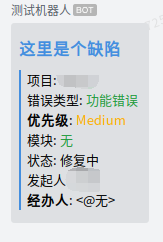
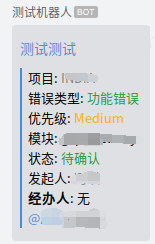
start pytest

diff --git a/21.jenkins/1.jenkins.md b/21.jenkins/1.jenkins.md
@@ -929,10 +929,10 @@ https://testerhome.com/articles/22280
 ### 1.jira-webhook配置
 ![](./images/jira-webhook.png)
 
-- 在URL中填写jenkins提供的webhook接口
-- 为了避免频繁的发送,只有在特定的几个状态时才发送
+- 在URL中填写jenkins提供的webhook接口:`http://JENKINS_URL/generic-webhook-trigger/invoke?token=JIRA-TO-QYWECHAT`
+- 为了避免频繁的发送,设定只有在特定的几个转换(步骤)时才发送
 
-### 2. jenkins设置
+### 2.jenkins job
 
 ![](./images/qywechat-bot.png)
 
@@ -946,7 +946,7 @@ pipeline {
     agent any
     triggers {
         GenericTrigger (
-            causeString: 'JIRA-TO-QYWECHAT', 
+            causeString: JOB_NAME,  // 事件名跟随job名变动
             genericVariables: [ // defaultValue不可设为 null, jenkins无法识别将报错
                 [defaultValue: '无', key: 'SUMMARY', regexpFilter: '', value: '$.issue.fields.summary'], 
                 [defaultValue: '无', key: 'PROJECT', regexpFilter: '', value: '$.issue.fields.project.name'], 
@@ -957,20 +957,31 @@ pipeline {
                 [defaultValue: '无', key: 'ASSIGNEE', regexpFilter: '', value: '$.issue.fields.assignee.displayName'],
                 [defaultValue: '无', key: 'PROJECT_KEY', regexpFilter: '', value: '$.issue.fields.project.key'],
                 [defaultValue: '无', key: 'KEY', regexpFilter: '', value: '$.issue.key'],
-                [defaultValue: '无', key: 'STATUS', regexpFilter: '', value: '$.issue.fields.status.name']
+                [defaultValue: '无', key: 'STATUS', regexpFilter: '', value: '$.issue.fields.status.name'],
+                [defaultValue: '无', key: 'REPORTER_AT', regexpFilter: '', value: '$.issue.fields.reporter.name'],
+                [defaultValue: '无', key: 'ASSIGNEE_AT', regexpFilter: '', value: '$.issue.fields.assignee.name']
                 ], 
-            printContributedVariables: true, 
-            printPostContent: true, 
+            printContributedVariables: true,  // 打印捕捉到的参数
+            printPostContent: true,  // 打印post方法发送的body
+            overrideQuietPeriod: true,
             regexpFilterExpression: '', 
             regexpFilterText: '', 
-            token: 'JIRA-TO-QYWECHAT', 
+            token: JOB_NAME,  // token跟随job名字变动,jira钩子处也要变动
             tokenCredentialId: ''
         )
     }
     stages {
         stage('send qywechat') {
             steps {
-
+                script {
+                    if(STATUS == "待确认" || STATUS == "重新打开"){
+                        AT = '<font color=\\"comment\\">待经办人处理:</font> <@'+ASSIGNEE_AT+'>'
+                    }else if(STATUS == "待验证"){
+                        AT = '<font color=\\"comment\\">待发起人处理:</font> <@'+REPORTER_AT+'>'
+                    }else{
+                        AT = '异常状态: <@admin>' // 此处替换成管理员
+                    }
+                }
                 httpRequest (
                     consoleLogResponseBody: true,  
                     contentType: 'APPLICATION_JSON_UTF8', 
@@ -979,11 +990,11 @@ pipeline {
                     requestBody: '''{
                         "msgtype": "markdown",
                         "markdown": {
-                            "content": "#### ['''+SUMMARY+'''](http://JIRA-URL:PORT/projects/'''+PROJECT_KEY+'''/issues/'''+KEY+''')\\n>项目: <font color=\\"comment\\">'''+PROJECT+'''</font>\\n>错误类型: <font color=\\"info\\">'''+ISSUETYPE+'''</font>\\n>优先级: <font color=\\"warning\\">**'''+PRIORITY+'''**</font>\\n>模块: '''+COMPONENT+'''\\n>状态: <font color=\\"info\\">'''+STATUS+'''</font>\\n>发起人: <font color=\\"comment\\">'''+REPORTER+'''</font>\\n>**经办人**: <@'''+ASSIGNEE+'''>"
+                            "content": "#### ['''+SUMMARY+'''](http://JIRA_URL:PORT/projects/'''+PROJECT_KEY+'''/issues/'''+KEY+''')\\n>项目: <font color=\\"comment\\">'''+PROJECT+'''</font>\\n>错误类型: <font color=\\"info\\">'''+ISSUETYPE+'''</font>\\n>**优先级**: <font color=\\"warning\\">'''+PRIORITY+'''</font>\\n>模块: '''+COMPONENT+'''\\n>状态: <font color=\\"info\\">'''+STATUS+'''</font>\\n>发起人: <font color=\\"comment\\">'''+REPORTER+'''</font>\\n>经办人: <font color=\\"comment\\">'''+ASSIGNEE+'''</font>\\n'''+AT+'''"
                         }
-                    }''', // 自行填充jira地址
+                    }''', 
                     responseHandle: 'NONE', 
-                    url: 'https://qyapi.weixin.qq.com/cgi-bin/webhook/send?key=wexinkey',// 此处填入自己的机器人 
+                    url: 'https://qyapi.weixin.qq.com/cgi-bin/webhook/send?key=wechat-robot-key', // 自行替换
                     wrapAsMultipart: false,
                     useSystemProperties: true
                 )
@@ -991,7 +1002,6 @@ pipeline {
         }
     }
 }
+
 ```
 
-3. 方案二
-为方便大家使用,笔者在github中创建了支持此功能的share library.

diff --git a/14.测试框架/3.pytest.md b/14.测试框架/3.pytest.md
@@ -1,11 +1,155 @@
-## pytest收集用例的规则：
+# 入门
+## 管理命令
+- `pip install -U pytest`: 安装pytest
+- `pytest -V`: 查看pytest版本
+- `pytest -h`: 显示命令行及配置文件选项帮助信息
+- `pytest --fixtures`: 显示可用的内置方法参数
 
-    1. file name：test_*.py 或者 *test.py
-    2. class name：Test* 且类内没有 __init__ 函数
-    3. function name: test_* 
-   
--- --
-## fixtrue方法：
+## 运行命令
+- `pytest`: 会执行当前目录及子目录下所有符合发现标准的文件
+- `pytest test_sample.py`: 指定模块运行
+- `pytest testing/`: 指定目录
+参数
+- `-q` 静默模式 
+    - ex: `pytest -q test_sample.py`
+- `-x`: 第1次失败后停止
+    - ex: `pytest -x`
+- `--maxfail=n`: 第n次失败后停止
+    - ex: `pytest --maxfail=3`
+- `-k 'expression'`: 运行表达式匹配的用例,包括文件名,类名,函数名作为变量,支持 ython运算符(`and`和`or`) 运算符
+    - ex: `pytest -k "MyClass and not method"` 运行含有 `"MyClass"`的文件名,类名,函数名, 不运行含有`method`的文件名,类名,函数名.例如:将运行`TestMyClass.test_something`但不运行`TestMyClass.test_method_simple`
+- `pytest modular::Class::function`按节点id(nodeid)运行: 模块名::类名::函数名
+    - ex: `pytest test_sample.py::test_answer` 运行`test_sample.py`模块内的`test_answer`用例
+
+```py
+def func(n):
+    return n+1
+
+
+def test_answer(): # 只会运行这个
+    assert func(3) == 5
+
+
+class TestDemo:
+    def test_answer(self):
+        assert func(3) == 5
+```
+
+- `pytest -m mark`: 通过标记(mark)运行
+    - ex: `pytest -m smoke` 运行所有带有`@pytest.mark.smoke`装饰器的用例
+
+```py
+@pytest.mark.smoke
+class TestDemo:
+    def test_answer(self):
+        assert func(3) == 5
+```
+
+- `pytest -r`: 指定状态结果摘要(short test summary info) 有的话会显示,如果没有的话完全不显示
+    - `pytest -ra`: 除了执行通过(Pass)以外所有的结果
+    - `pytest -rf`: 失败的用例
+    - `pytest -rE`: 出错的用例
+    - `pytest -rs`: 跳过的用例
+    - `pytest -rx`: 标记失败的用例
+    - `pytest -rX`: 标记成功的用例
+    - `pytest -rp`: 成功用例
+    - `pytest -rP`: 成功用例并输出信息
+
+也可以进行组合
+    - ex: `pytest -rfs` 只查看失败和跳过的用例
+
+- `--durations=n`: 显示执行最慢的n条用例
+    - 默认情况下不展示<0.005的用例, 使用`-vv`可开启 ex: `--durations=n -vv`
+
+## 退出code
+- exit code 0: 收集并成功通过所有测试用例
+- exit code 1: 收集并运行了测试,部分测试用例执行失败
+- exit code 2: 测试执行被用户中断
+- exit code 3: 执行测试中发生内部错误
+- exit code 4: pytest命令行使用错误
+- exit code 5: 没有收集到测试用例
+
+## 用例发现规则
+1. file name：`test_*.py` 或者 `*test.py`
+2. class name：`Test*` 且类内没有 `__init__` 函数
+3. function name: `test_*`
+
+ex:
+```py
+# test_sample.py
+
+def func(x):
+    return x + 1
+
+def test_answer():
+    assert func(3) == 5
+
+class TestDemo:
+
+    def test_answer():
+        assert func(3) == 4
+
+```
+```sh
+dev012@dev012:~/workspace/demo$ pytest
+========== test session starts ===========
+platform linux -- Python 3.7.5, pytest-6.1.2, py-1.9.0, pluggy-0.13.1
+rootdir: /home/dev012/workspace/demo
+plugins: allure-pytest-2.8.6
+collected 2 items
+
+test_sample.py .F                          [100%]
+
+================ FAILURES ================
+__________ TestDemo.test_answer __________
+
+self = <test_sample.TestDemo object at 0x7fdb41554e10>
+
+    def test_answer(self):
+>       assert func(3) == 5
+E       assert 4 == 5
+E        +  where 4 = func(3)
+
+test_sample.py:11: AssertionError
+======== short test summary info =========
+FAILED test_sample.py::TestDemo::test_answer - assert 4 == 5
+====== 1 failed, 1 passed in 0.02s =======
+```
+
+
+# 语法
+## 断言
+### pytest.raises 断言异常
+在上下文中出现预期异常,异常将被捕获不会被抛出,断言成功
+```py
+import pytest
+
+
+def func():
+    raise SystemExit(1)
+
+
+def test_answer():
+    with pytest.raises(SystemExit): # 在此处上下文中出现预期异常,异常将被捕获不会被抛出,断言成功
+        func()
+```
+
+### 万物都可做断言
+```py
+
+# in
+def test_in():
+    x = "this"
+    assert "h" in x
+
+# hasattr
+def test_has_atter():
+    x = "hello"
+    print(hasattr(str, x))
+    assert hasattr(str, x)
+```
+
+## fixtrue
 ### 设置用例:
 ```python
 @pytest.fixture(scope, params, autouse, ids, name)  # 因为都是关键字参数，所以使用时务必指定传参

diff --git a/18.devops/工具链/5.JIRA.md b/18.devops/工具链/5.JIRA.md
@@ -89,7 +89,7 @@ docker exec jira-srv java -jar /var/agent/atlassian-agent.jar \
 
 在工作流中有两个重要的概念,一个是状态.状态就是上图中带背景色的块.一个是转换,也可以理解为步骤,即相关人员在issue中的选项,进而到达相关的状态.
 
-如图,蓝色转换(步骤)处为开发(经办人)所具备的选项,红色为测试具备的选项([权限配置](#2步骤配置))
+如图,蓝色转换(步骤)处为开发(经办人)所具备的选项,红色为测试具备的选项([权限配置](#步骤))
 
 简单说下上图的一个操作逻辑.
 - 测试创建issue单,交由经办人确认是否为缺陷,缺陷走到修复中状态,非缺陷则交由测试再次确认
@@ -127,7 +127,7 @@ docker exec jira-srv java -jar /var/agent/atlassian-agent.jar \
 
 在工作流编辑页面,点击状态后可进入 状态属性页 进行高级操作.(不常用)
 #### 步骤
-![](./images/jira-buzhou-config.png)
+![](./images/jira-step-config.png)
 
 在工作流编辑页面,点击步骤后有配置弹窗,点击可进行相关配置
 
@@ -135,6 +135,10 @@ docker exec jira-srv java -jar /var/agent/atlassian-agent.jar \
 - 可使用步骤的条件(比如可以设置某项步骤只有某些项目角色才可以使用)
 - 验证器: 执行这个转换前进行输入参数检查。
 - 后处理功能: 在转换后将执行的操作(比如webhook等其他)
+
+
+![](./images/jira-step-webhook.png)
+tips: 如果需要指定某些步骤触发webhook的话只能在此处设置.在[系统webhook](#3网络钩子(webhook))的设置页面,不支持步骤(转换)级触发设置.
 
 ## 2.用户
 用户可在全局管理中的用户管理中添加.以及自定义配置用户组等
@@ -146,3 +150,4 @@ docker exec jira-srv java -jar /var/agent/atlassian-agent.jar \
 2. jenkins 将信息解析后 发往企业微信
 
 [具体实现可见 jenkins篇 4.实践部分](../../21.jenkins/1.jenkins.md#4-实践)
+

diff --git a/README.md b/README.md
@@ -106,4 +106,10 @@ k8s解决方案:
 https://www.cnblogs.com/superhin/p/11478007.html
 
 
+读书记录:(更多是实践性的)
+1. Docker —— 从入门到实践
+2. 《Flask Web开发：基于Python的Web应用开发实战（第2版）》 (狗书)
+3. Python核心编程(第3版)
+4. SQL必知必会（第4版）
+5. 跟老齐学python：django实战(2版)
 
